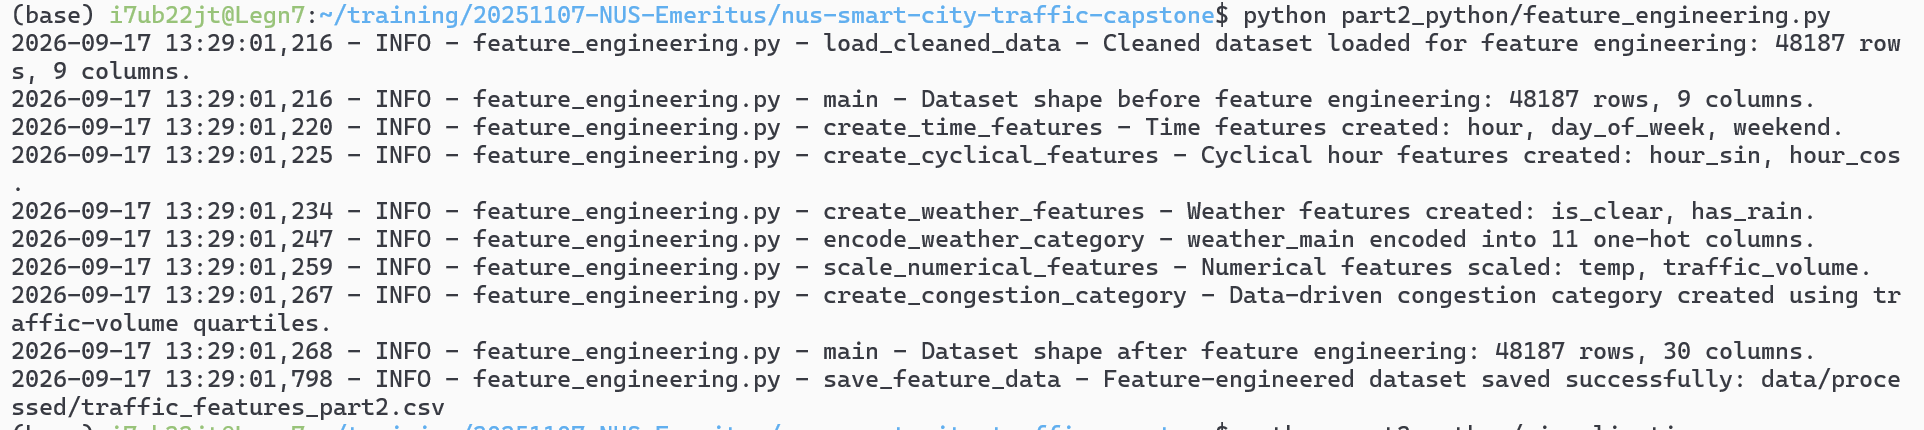
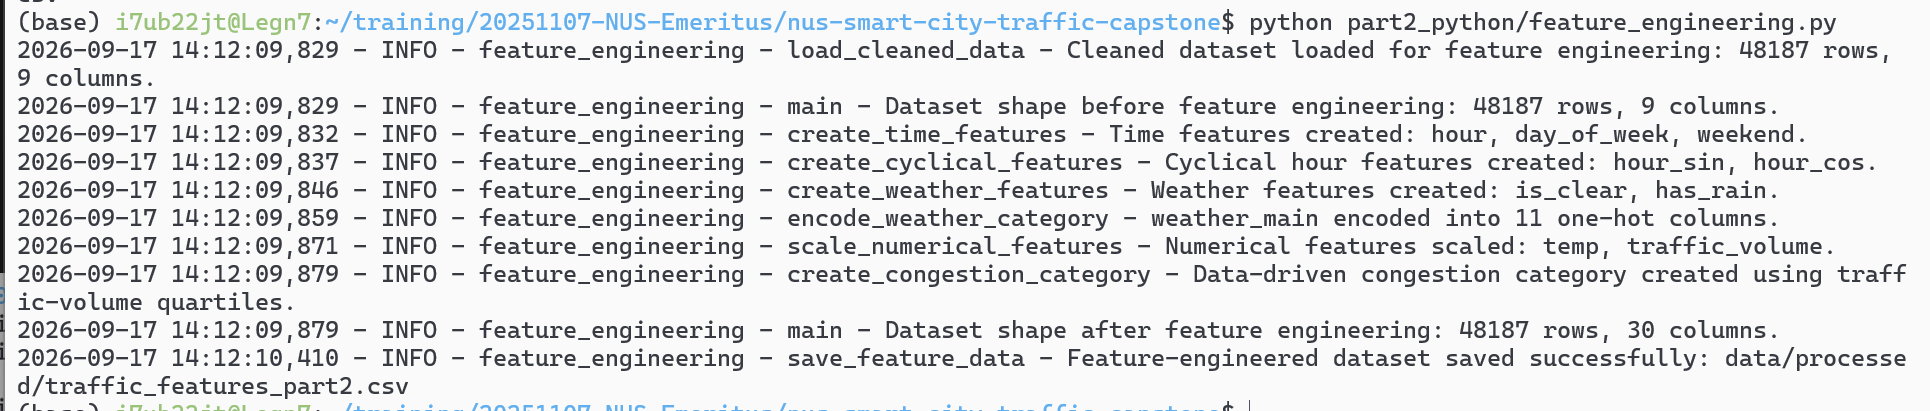
update part2 - task 1,2,3

Changed region(s): [[0.0, 0.0, 0.9979, 1.0], [0.8108, 0.9927, 0.842, 1.0], [0.7173, 0.9927, 0.7484, 1.0]]

diff --git a/part2_python/feature_engineering.py b/part2_python/feature_engineering.py
@@ -248,7 +248,7 @@ if __name__ == "__main__":
     logger.setLevel(logging.INFO)
 
     formatter = logging.Formatter(
-        "%(asctime)s - %(levelname)s - %(filename)s - %(funcName)s - %(message)s"
+         "%(asctime)s - %(levelname)s - %(module)s - %(funcName)s - %(message)s"
     )
 
     console_handler = logging.StreamHandler()

diff --git a/part2_python/visualizations.py b/part2_python/visualizations.py
@@ -167,7 +167,7 @@ if __name__ == "__main__":
     logger.setLevel(logging.INFO)
 
     formatter = logging.Formatter(
-        "%(asctime)s - %(levelname)s - %(filename)s - %(funcName)s - %(message)s"
+         "%(asctime)s - %(levelname)s - %(module)s - %(funcName)s - %(message)s"
     )
 
     console_handler = logging.StreamHandler()

diff --git a/part2_python/pipeline.py b/part2_python/pipeline.py
@@ -12,7 +12,7 @@ logger = logging.getLogger(__name__)
 logger.setLevel(logging.INFO)
 
 formatter = logging.Formatter(
-    "%(asctime)s - %(levelname)s - %(filename)s - %(funcName)s - %(message)s"
+     "%(asctime)s - %(levelname)s - %(module)s - %(funcName)s - %(message)s"
 )
 
 console_handler = logging.StreamHandler()
